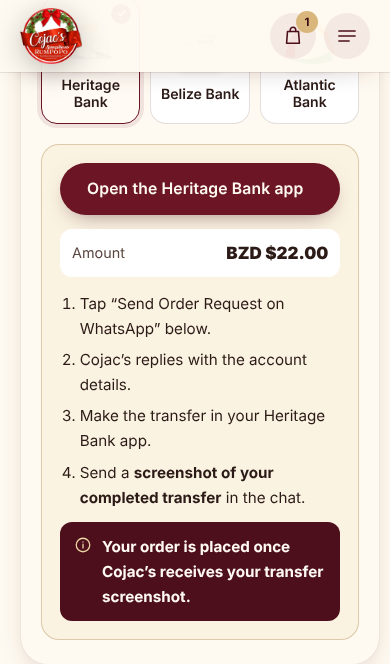
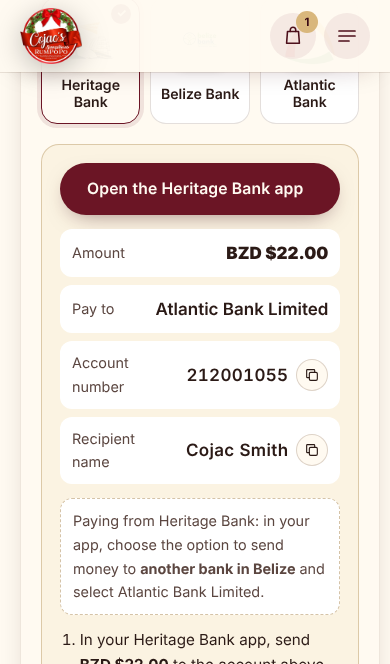
Show Cojac's Atlantic Bank account at checkout
- All bank transfers go to Atlantic Bank Limited, account 212001055,
  recipient Cojac Smith (owner supplied), shown with copy buttons.
- Heritage Bank and Belize Bank payers are told to send it as a transfer to
  another bank in Belize.
- When the total is known (delivery or pickup) the steps are transfer first,
  then send the order with the screenshot; for shipping, Cojac's confirms the
  total first.
- Pickup payment (cash or transfer) confirmed by the owner.
- FAQ and docs updated; 37 unit, 177 order-flow, 129 blog checks pass;
  axe clean; 48-page sweep clean.

Claude-Session: https://claude.ai/code/session_01Ki3rxNhcieay8jUMAm5uKL

diff --git a/cojac-rumpopo/src/components/PaymentStep.tsx b/cojac-rumpopo/src/components/PaymentStep.tsx
@@ -1,5 +1,5 @@
 import { useEffect, useState } from 'react';
-import { banks, type BankId, type PaymentMethodId } from '../content/payments';
+import { banks, receivingAccount as acct, type BankId, type PaymentMethodId } from '../content/payments';
 import { bankAppLink, detectPlatform, effectivePayment, findBank, optionsFor, type Platform } from '../lib/payments';
 import { formatBZD } from '../lib/order';
 import { asset, copyText } from '../lib/whatsapp';
@@ -130,25 +130,49 @@ export function PaymentStep({ details, setDetails, fulfilment, total, attempted,
                         <strong>{total !== null ? formatBZD(total) : 'Confirmed by Cojac’s on WhatsApp'}</strong>
                       </dd>
                     </div>
-                    {bank.account && (
+                    {acct && (
                       <>
-                        <CopyRow label="Account name" value={bank.account.accountName} />
-                        <CopyRow label="Account number" value={bank.account.accountNumber} />
                         <div className="account-row">
-                          <dt>Account type</dt>
-                          <dd>{bank.account.accountType}</dd>
+                          <dt>Pay to</dt>
+                          <dd>{acct.bankName}</dd>
                         </div>
+                        <CopyRow label="Account number" value={acct.accountNumber} />
+                        <CopyRow label="Recipient name" value={acct.accountName} />
+                        {acct.accountType && (
+                          <div className="account-row">
+                            <dt>Account type</dt>
+                            <dd>{acct.accountType}</dd>
+                          </div>
+                        )}
                       </>
                     )}
                   </dl>
 
+                  {acct && bank.id !== acct.bankId && (
+                    <p className="transfer-hint">
+                      Paying from {bank.name}: in your app, choose the option to send money to <strong>another bank in Belize</strong> and select{' '}
+                      {acct.bankName}.
+                    </p>
+                  )}
+
                   <ol className="transfer-steps">
-                    {bank.account ? (
+                    {acct && total !== null ? (
                       <>
-                        <li>Transfer the amount in your {bank.name} app.</li>
-                        <li>Tap “Send Order Request on WhatsApp” below.</li>
                         <li>
-                          In the chat, send a <strong>screenshot of your completed transfer</strong>.
+                          In your {bank.name} app, send <strong>{formatBZD(total)}</strong> to the account above.
+                        </li>
+                        <li>
+                          Take a <strong>screenshot of your completed transfer</strong>.
+                        </li>
+                        <li>Tap “Send Order Request on WhatsApp” below and send the screenshot in the chat.</li>
+                      </>
+                    ) : acct ? (
+                      <>
+                        <li>Tap “Send Order Request on WhatsApp” below.</li>
+                        <li>Cojac’s replies with your total, including the shipping charge.</li>
+                        <li>In your {bank.name} app, send that amount to the account above.</li>
+                        <li>
+                          Send a <strong>screenshot of your completed transfer</strong> in the chat.
                         </li>
                       </>
                     ) : (

diff --git a/cojac-rumpopo/src/content/payments.ts b/cojac-rumpopo/src/content/payments.ts
@@ -17,19 +17,22 @@
  * Store page, which shows "Open" when the app is installed; on a computer it
  * opens the bank's website.
  *
- * `account`: OPTIONAL. If Cojac's wants customers to transfer straight away,
- * fill in the account that customers of that bank should pay into (name, number,
- * type). While empty, the site tells customers that Cojac's will send the account
- * details in the WhatsApp chat. Never guess these details.
+ * `receivingAccount`: the account ALL transfers are paid into (supplied by the
+ * owner, Nov 2026). Customers of other banks send it as a transfer to another
+ * bank in Belize. Set it to null to hide it; the site then tells customers that
+ * Cojac's will send the account details in the WhatsApp chat.
  */
 import type { FulfilmentId } from '../types';
 
 export type PaymentMethodId = 'cash' | 'transfer';
 export type BankId = 'heritage' | 'belize-bank' | 'atlantic';
 
-export interface BankAccount {
+export interface ReceivingAccount {
+  bankId: BankId;
+  bankName: string;
   accountName: string;
   accountNumber: string;
+  /** Optional, e.g. "Savings". Leave empty if not supplied. */
   accountType: string;
 }
 
@@ -41,7 +44,6 @@ export interface Bank {
   iosAppStore: string;
   androidPackage: string;
   website: string;
-  account: BankAccount | null;
 }
 
 export const banks: Bank[] = [
@@ -53,7 +55,6 @@ export const banks: Bank[] = [
     iosAppStore: 'https://apps.apple.com/bz/app/heritage-bank-ltd/id1484725931',
     androidPackage: 'com.heritage.mobile.android.ui',
     website: 'https://www.heritageibt.com/',
-    account: null,
   },
   {
     id: 'belize-bank',
@@ -63,7 +64,6 @@ export const banks: Bank[] = [
     iosAppStore: 'https://apps.apple.com/bz/app/belize-bank-mobile-banking/id1361907333',
     androidPackage: 'com.belizebank.mobile',
     website: 'https://www.belizebank.com/',
-    account: null,
   },
   {
     id: 'atlantic',
@@ -73,9 +73,16 @@ export const banks: Bank[] = [
     iosAppStore: 'https://apps.apple.com/bz/app/atlantic-bank-mobile-banking/id1608600308',
     androidPackage: 'com.mobilebankingatlanticbank',
     website: 'https://www.atlabank.com/',
-    account: null,
   },
 ];
+
+export const receivingAccount: ReceivingAccount | null = {
+  bankId: 'atlantic',
+  bankName: 'Atlantic Bank Limited',
+  accountName: 'Cojac Smith',
+  accountNumber: '212001055',
+  accountType: '',
+};
 
 /** Payment options offered for each fulfilment choice, in display order. */
 export const paymentOptions: Record<FulfilmentId, { id: PaymentMethodId; label: string; description: string }[]> = {

diff --git a/cojac-rumpopo/src/content/faqs.ts b/cojac-rumpopo/src/content/faqs.ts
@@ -161,7 +161,7 @@ export const faqs: FaqItem[] = [
     published: true,
     question: 'How can I pay?',
     answer:
-      'Cash on delivery for Belize City delivery, cash at pickup, or bank transfer from Heritage Bank, Belize Bank or Atlantic Bank. Shipping orders to other districts are paid by bank transfer. If you pay by bank transfer, send a screenshot of the completed transfer in the WhatsApp chat: your order is placed once Cojac’s receives it.',
+      'Cash on delivery for Belize City delivery, cash at pickup, or bank transfer from Heritage Bank, Belize Bank or Atlantic Bank. Shipping orders to other districts are paid by bank transfer. Transfers go to Cojac’s Atlantic Bank account, shown at checkout (from Heritage Bank or Belize Bank, send it as a transfer to another bank in Belize). Then send a screenshot of the completed transfer in the WhatsApp chat: your order is placed once Cojac’s receives it.',
   },
   { id: 'storage', category: 'product', published: false, question: 'How should I store my rumpopo, and how long does it keep?', answer: '' },
   { id: 'gifting', category: 'general', published: false, question: 'Do you offer gift packaging or bulk orders?', answer: '' },

diff --git a/cojac-rumpopo/tests/payments.test.ts b/cojac-rumpopo/tests/payments.test.ts
@@ -1,5 +1,5 @@
 import { describe, expect, it } from 'vitest';
-import { banks } from '../src/content/payments';
+import { banks, receivingAccount } from '../src/content/payments';
 import { bankAppLink, detectPlatform, effectivePayment, findBank, optionsFor, paymentMessageLines } from '../src/lib/payments';
 import { buildOrderMessage, lineKey, resolveLines } from '../src/lib/order';
 import type { FulfilmentOption, Product } from '../src/types';
@@ -46,8 +46,9 @@ describe('banks', () => {
     expect(detectPlatform('Mozilla/5.0 (iPhone; CPU iPhone OS 17_0 like Mac OS X)')).toBe('ios');
     expect(detectPlatform('Mozilla/5.0 (Windows NT 10.0; Win64; x64)')).toBe('desktop');
   });
-  it('never ships invented account details', () => {
-    for (const b of banks) if (b.account) expect(b.account.accountNumber).toMatch(/^\d[\d -]{4,}$/);
+  it('uses the owner-supplied receiving account', () => {
+    expect(receivingAccount).toEqual({ bankId: 'atlantic', bankName: 'Atlantic Bank Limited', accountName: 'Cojac Smith', accountNumber: '212001055', accountType: '' });
+    expect(banks.some((b) => b.id === receivingAccount!.bankId)).toBe(true);
   });
 });
 

diff --git a/cojac-rumpopo/src/styles/pages.css b/cojac-rumpopo/src/styles/pages.css
@@ -3313,3 +3313,23 @@
     font-size: 0.8rem;
   }
 }
+.transfer-hint {
+  margin: 0 0 12px;
+  padding: 10px 12px;
+  border-radius: 12px;
+  background: #fff;
+  border: 1px dashed rgba(162, 122, 60, 0.45);
+  font-size: 0.9rem;
+  color: var(--ink-soft);
+}
+.account-row dd span {
+  font-variant-numeric: tabular-nums;
+  letter-spacing: 0.02em;
+}
+.account-row dd span {
+  white-space: nowrap;
+}
+.account-row dt {
+  flex: 0 1 auto;
+  min-width: 0;
+}

diff --git a/cojac-rumpopo/docs/QA-REPORT.md b/cojac-rumpopo/docs/QA-REPORT.md
@@ -19,7 +19,7 @@ Date: 6 November 2026 · Build: production (`npm run build`) and QA (`VITE_QA_WH
 | **No dashes or eyebrows** | Scan of every built page, the JS bundle, llms.txt and the manifest: 0 em/en dashes, 0 eyebrow labels, 0 small-caps kicker labels. |
 | **Holiday Blog (Nov 2026)** | 25 / 25 unit tests; 129 / 129 blog checks at 1280, 1920, 390 and 360 px (`qa-blog.log`); CLS ≤ 0.009; axe clean; details in `docs/HOLIDAY-BLOG.md`. |
 | **Gallery (Nov 2026)** | Replaced with the nine supplied scenes. All 9 load with no failed requests at 360, 390, 834, 1280 and 1440px; phones get the 4:5 Mobile files and larger screens the 4:3 Desktop files, shown edge to edge at their exact ratio (no borders, padding or text over the photos); lightbox opens and steps through all 9; homepage hero unchanged. |
-| **Payment step (Nov 2026)** | 37 / 37 unit tests (12 new: options per fulfilment, shipping forces transfer, bank links per platform, message lines). 170 / 170 order-flow checks on desktop, iPhone 13 and Pixel 7: payment and bank required, delivery offers cash or transfer, cash hides the bank step, three bank icons load, “Open Belize Bank” goes to the website / App Store / installed app (Play fallback) on each device, amount BZD $166.00 shown, screenshot instruction shown, no invented account number, message includes “Payment: Bank transfer (Belize Bank)” and the screenshot line. axe clean with the bank step open. |
+| **Payment step (Nov 2026)** | 37 / 37 unit tests (12 new: options per fulfilment, shipping forces transfer, bank links per platform, message lines). 177 / 177 order-flow checks on desktop, iPhone 13 and Pixel 7 (including the Atlantic Bank account 212001055 / Cojac Smith shown with copy buttons, the other-bank hint and transfer-first steps when the total is known): payment and bank required, delivery offers cash or transfer, cash hides the bank step, three bank icons load, “Open Belize Bank” goes to the website / App Store / installed app (Play fallback) on each device, amount BZD $166.00 shown, screenshot instruction shown, no invented account number, message includes “Payment: Bank transfer (Belize Bank)” and the screenshot line. axe clean with the bank step open. |
 | Favicon | `/favicon.ico` (16/32/48) + 48/96/192/512 PNG + 180 apple-touch-icon + manifest, linked in the static homepage `<head>` |
 | Hydration | Pre-rendered HTML is hydrated, and the saved cart and age answer are restored after mount. The order flow was re-run: 89/89 (QA number) and 50/50 (no number) pass. The sweep over the served static files found no console errors. |
 | Direct load / refresh of every route | Each route is pre-rendered to its own `index.html` with its own title, description and canonical link. Unknown paths → `404.html` with a 404 status (`_redirects` and `netlify.toml`). |

diff --git a/cojac-rumpopo/docs/HANDOVER.md b/cojac-rumpopo/docs/HANDOVER.md
@@ -125,7 +125,7 @@ For a bank transfer the customer picks **Heritage Bank, Belize Bank or Atlantic 
 
 The page shows the amount when it is known and the steps to follow. It states clearly that **the order is placed once Cojac’s receives the screenshot of the completed transfer** in the WhatsApp chat. The WhatsApp message adds “Payment: Bank transfer (Belize Bank)” and “I will send the transfer screenshot in this chat.” For cash it adds “Payment: Cash on delivery”.
 
-**Optional: show Cojac’s account details on the site.** Fill in `account` for each bank (account name, number and type). Customers can then transfer straight away; while it is empty, they are told that Cojac’s will send the account details in the chat.
+**Receiving account:** all transfers go to `receivingAccount` in the same file: **Atlantic Bank Limited, account 212001055, recipient Cojac Smith**. It is shown at checkout with copy buttons. Customers paying from Heritage Bank or Belize Bank are told to send it as a transfer to another bank in Belize. When the total is known (delivery or pickup), they transfer first, then send the order with the screenshot. For shipping, Cojac’s confirms the total with the shipping charge in the chat first. To change the account, edit those fields; set it to `null` to hide it, and customers will be told the details come in the chat.
 
 The links to each bank’s app are in the same file (`iosAppStore`, `androidPackage`, `website`); they were checked against the official store listings in November 2026.
 

diff --git a/cojac-rumpopo/docs/LAUNCH-BLOCKERS.md b/cojac-rumpopo/docs/LAUNCH-BLOCKERS.md
@@ -19,7 +19,7 @@ Nothing below was invented. Each item is either empty in the config (so it is hi
 
 | 9c | **Holiday Blog contest link**: the exact Facebook competition post URL, confirmation the flavour is still secret and guesses still open, and any eligibility/age wording the owners want shown | `src/content/blog/contest.ts` | Panel links to the official Facebook page (“Visit Cojac’s Official Facebook Page”) and asks people to find the post. No enter button until the link is supplied. |
 
-| 9d | **Bank account details** (optional): if customers should transfer before messaging, the account name, number and type for the bank(s) Cojac’s uses. Also confirm that **pickup** may be paid in cash (assumed) and that shipping is transfer only. | `src/content/payments.ts → account` | Customers are told Cojac’s will send the account details on WhatsApp. |
+| 9d | ~~Bank account details and pickup payment~~ — **done**: transfers go to Atlantic Bank Limited, account 212001055 (Cojac Smith); pickup is cash or bank transfer (confirmed); shipping is transfer only. Account type not supplied, so none is shown. | `src/content/payments.ts` | Shown at checkout with copy buttons. |
 
 ## Should have
 
